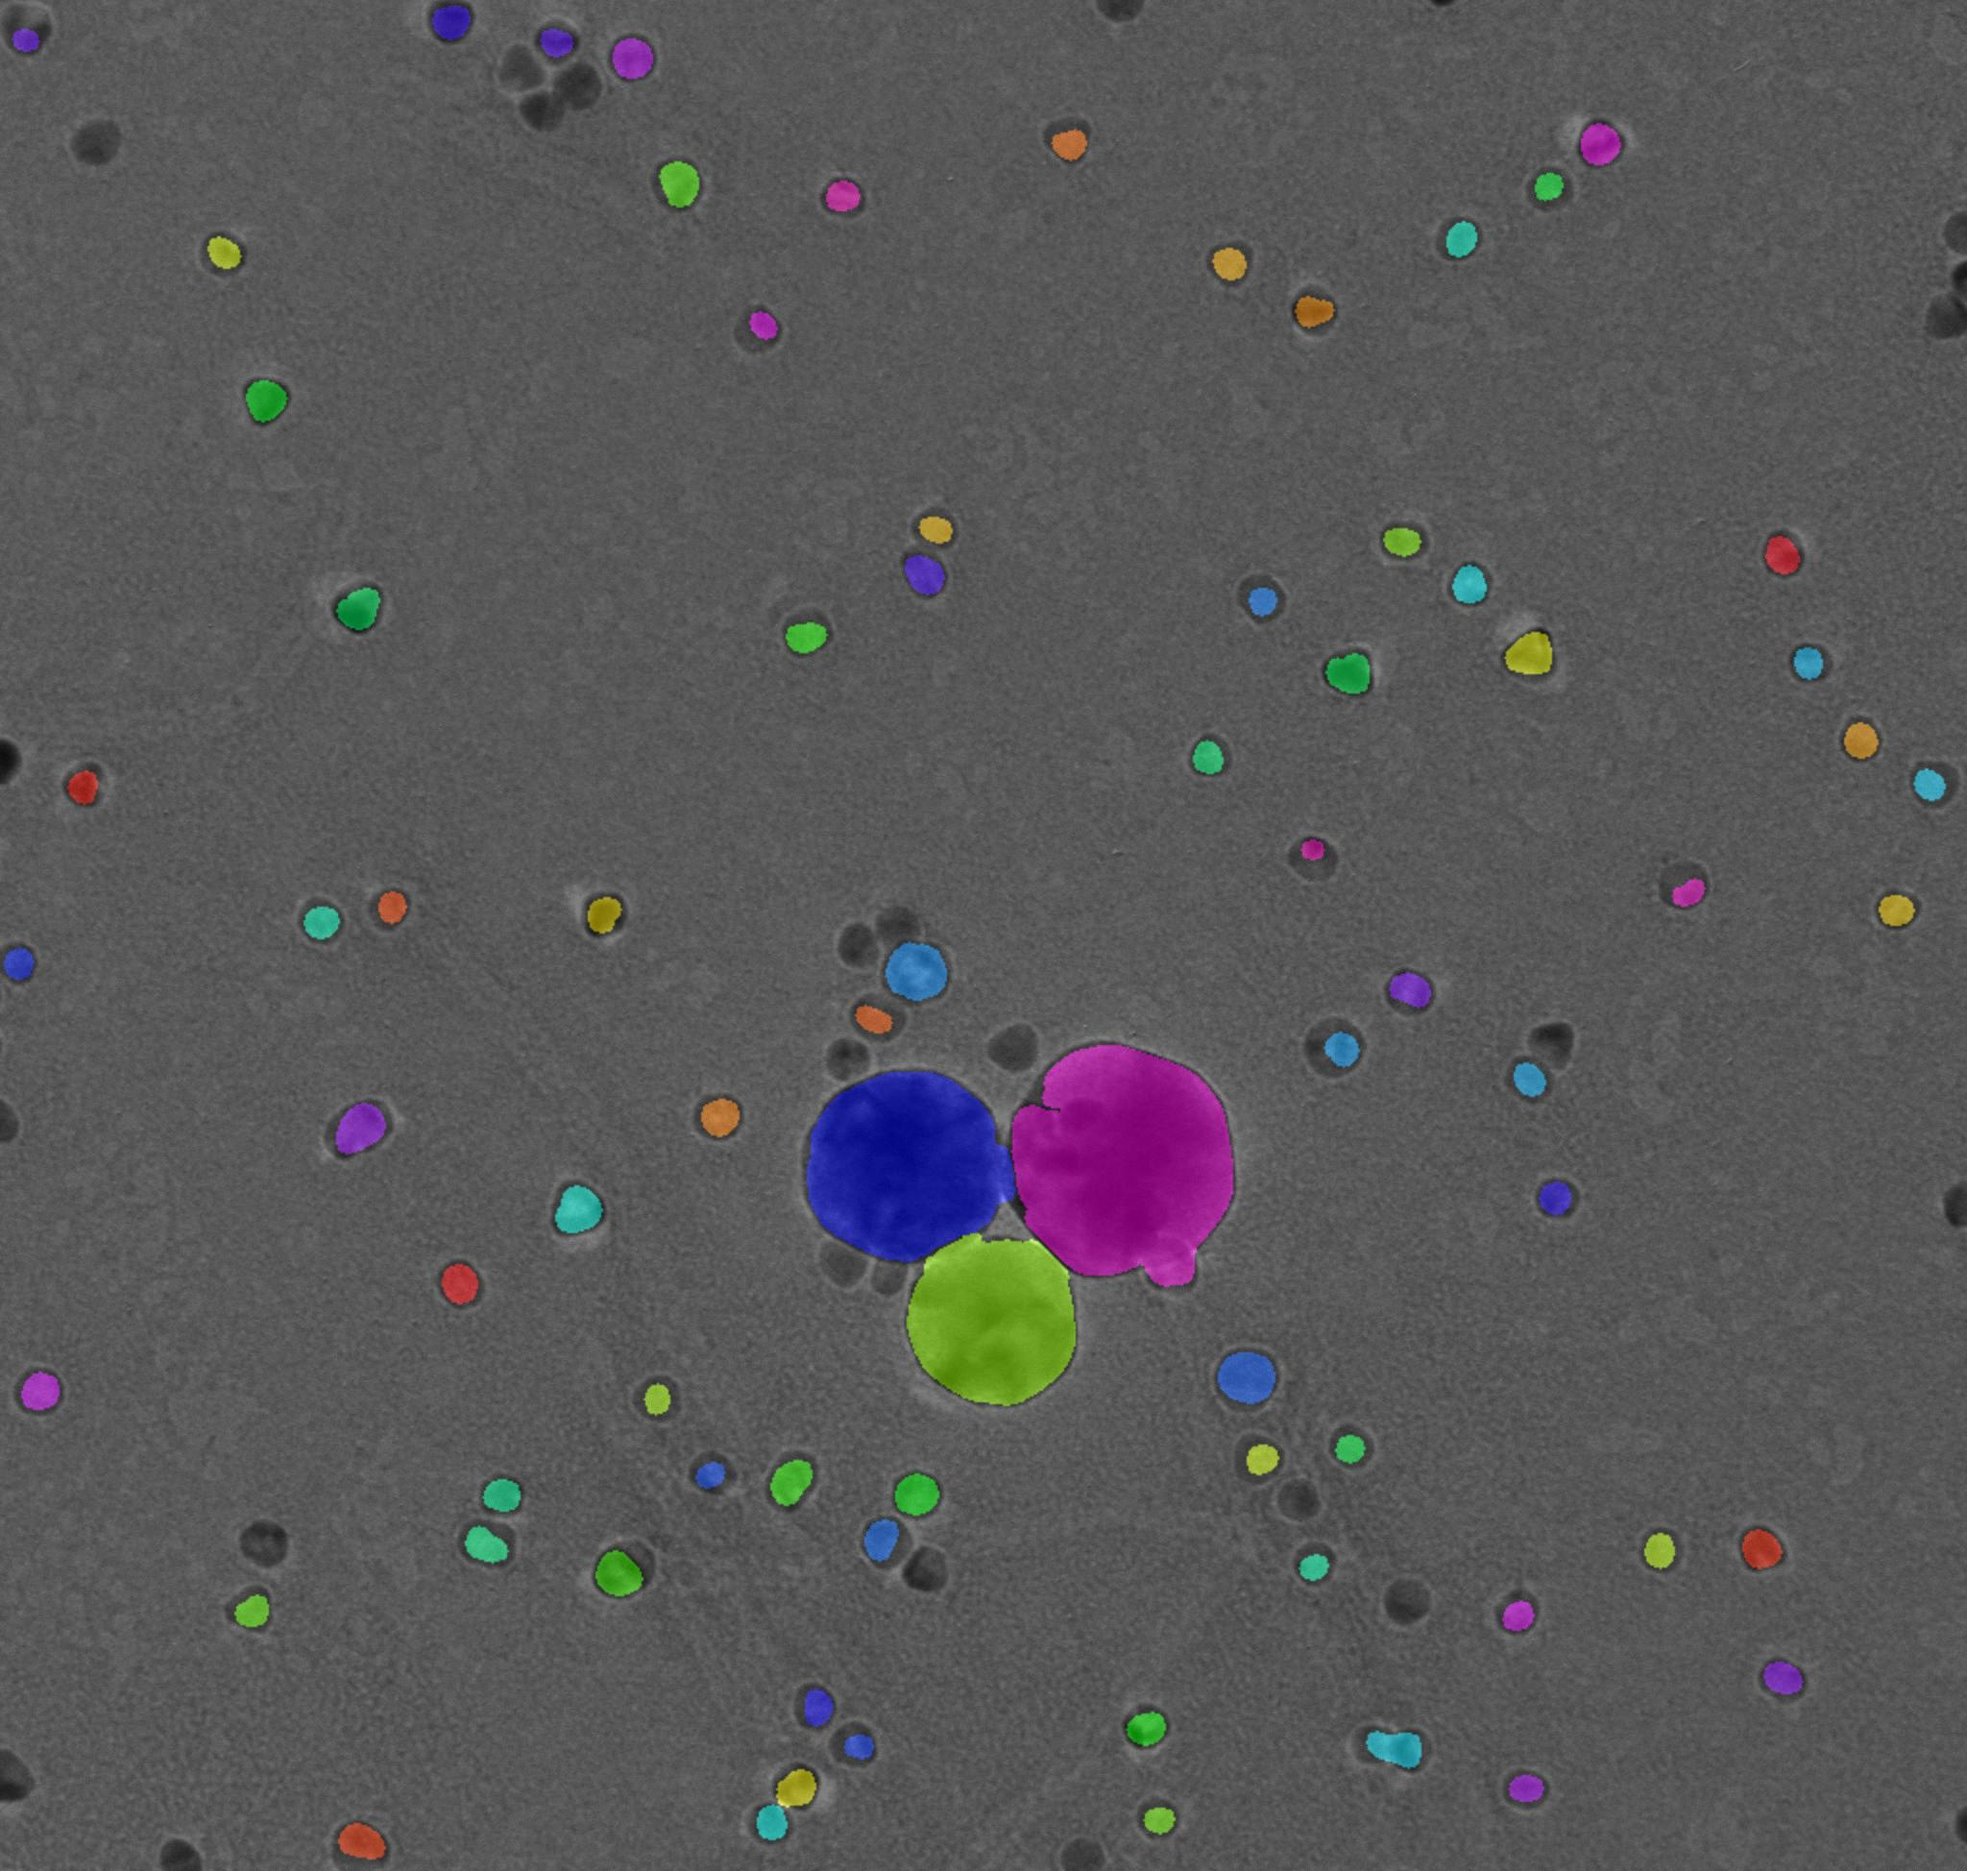
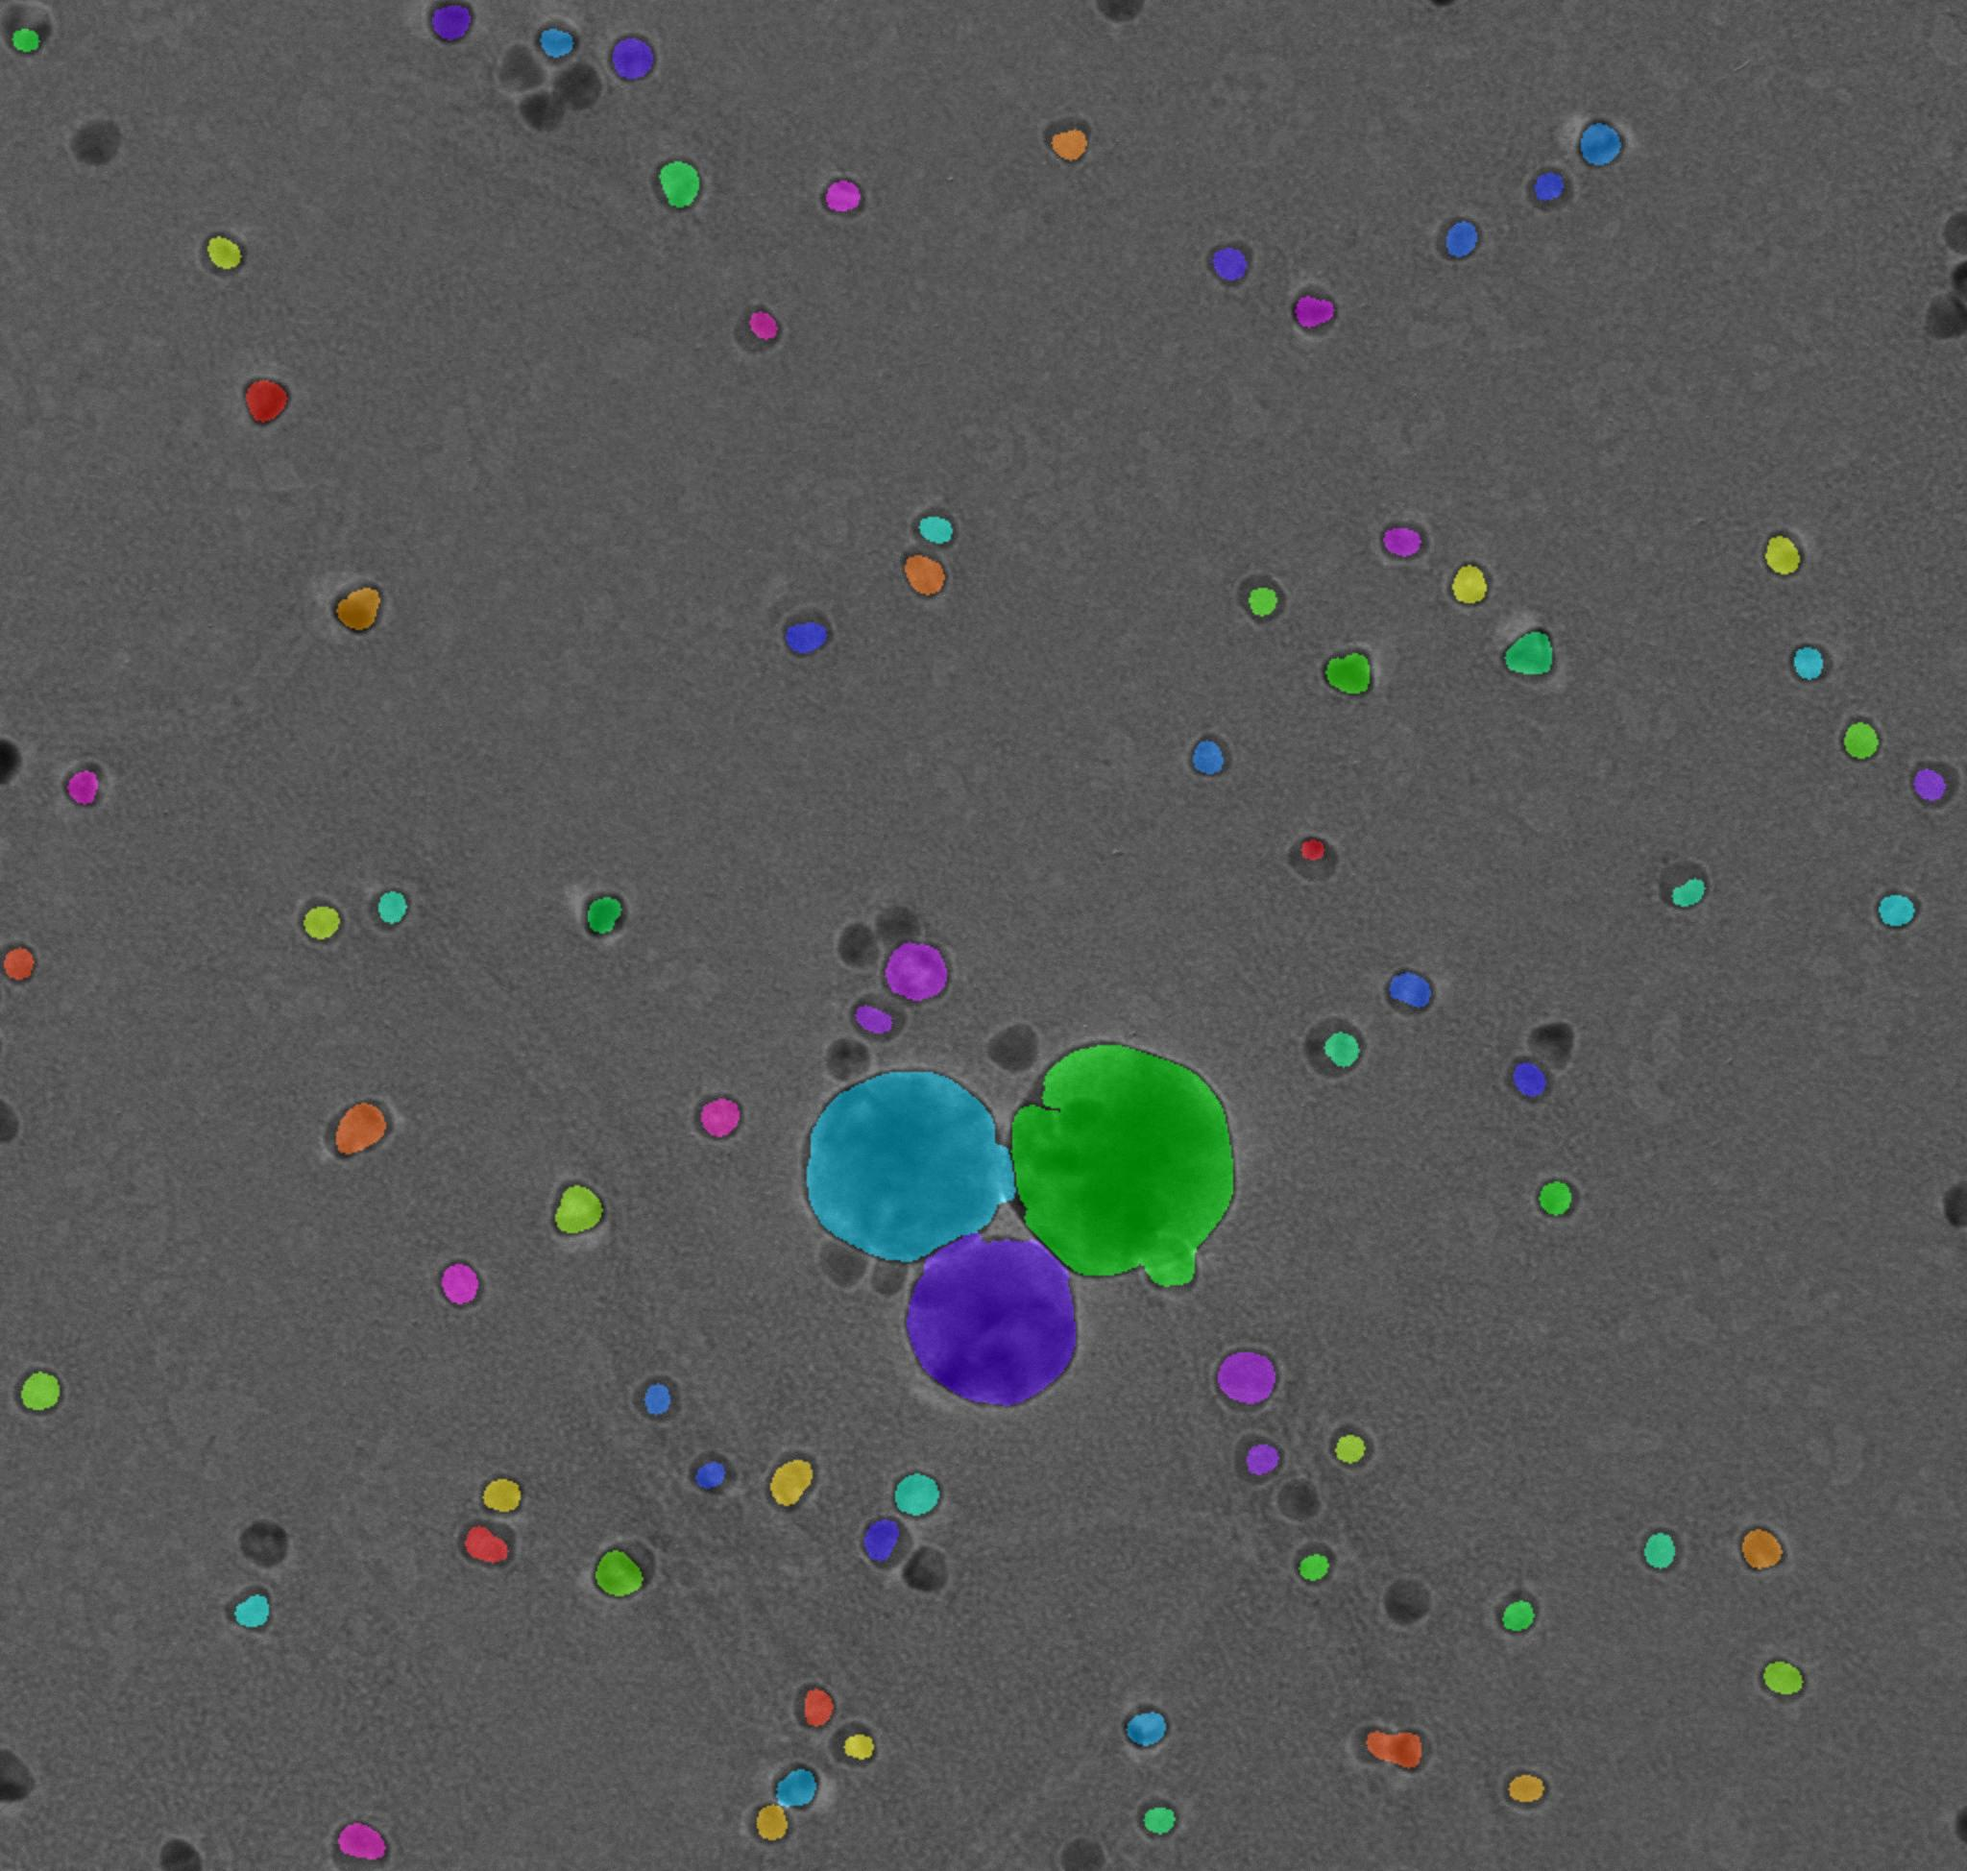
plotting and statistical evaluation

diff --git a/img_fcn.py b/img_fcn.py
@@ -3,20 +3,21 @@ import numpy as np
 import cv2
 import matplotlib.pyplot as plt
 from scipy import ndimage as ndi
+from scipy import stats
 import json
 import os
 import re
 import argparse
-from copy import deepcopy, copy
+from copy import deepcopy
 from skimage.io import imread
-from skimage.filters import threshold_otsu, threshold_minimum, median
+from skimage.filters import threshold_otsu, median
 from skimage.color import rgb2gray
 from skimage.segmentation import watershed, clear_border
-from skimage.feature import peak_local_max, canny
+from skimage.feature import canny
 from skimage.transform import rescale, hough_circle, hough_circle_peaks
 from skimage.measure import regionprops_table, label
 from skimage.morphology import (
-    remove_small_holes, remove_small_objects, disk, erosion, dilation, opening, convex_hull_image, closing
+    remove_small_holes, remove_small_objects, disk, erosion, dilation, convex_hull_image
 )
 from sklearn.cluster import KMeans
 import random
@@ -274,13 +275,16 @@ def segmentation(img, binary, np_type, pixel_size):
     if np_type == "nanoparticles":
         props_ht = find_overlaps(img, labels, sizes, np_type, pixel_size)
         sizes = find_duplicity(labels, props_ht, props_watershed, pixel_size)
+        seeds, seeds_sizes = detect_seeds(deepcopy(sizes))
+        if seeds:
+            sizes = [i for i in sizes if i not in seeds_sizes]
     else:
         labels, props_watershed = filter_blobs(labels, sizes, props_watershed)
         sizes[0] = [i * pixel_size for i in sizes[1]]
         sizes[1] = [i * pixel_size for i in sizes[2]]
         props_ht = []
 
-    return labels, sizes, props_ht
+    return labels, sizes, props_ht, seeds
 
 
 def result_image(raw, labels, np_type, props_ht):
@@ -372,14 +376,19 @@ def find_duplicity(labels, props_ht, props_wsh, pixel_size):
 
 def detect_seeds(sizes):
     sizes = np.array(sizes).reshape(-1, 1)
-    kmeans = KMeans(n_clusters=2).fit(sizes)
+    kmeans = KMeans(n_clusters=2, n_init="auto").fit(sizes)
     centers = kmeans.cluster_centers_
-    if centers[0] > 4*centers[1] or centers[1] > 4*centers[0]:
+    if centers[0] > 4*centers[1]:
         seeds = True
+        seeds_sizes = [sizes[i] for i in range(len(sizes)) if kmeans.labels_[i] == 1]
+    elif centers[1] > 4*centers[0]:
+        seeds = True
+        seeds_sizes = [sizes[i] for i in range(len(sizes)) if kmeans.labels_[i] == 0]
     else:
         seeds = False
+        seeds_sizes = []
 
-    return seeds, centers
+    return seeds, seeds_sizes
         
 
 
@@ -649,58 +658,22 @@ def ploting_img(images, names):
     plt.show()
 
 
-def saving(img, file_name, sizes, np_type, directory="results"):
+def saving(img, file_name, directory="results"):
     """Save result image into given directory.
 
     Args:
         img (numpy array): labeled image
         file_name (str): name of current input image file
-        sizes (list): list of sizes in current input
-        np_type (str): nanoparticles or nanorods
         directory (str, optional): path to directory
 
     Returns:
         string: path to file
     """
     name = re.split("/", file_name)
-    res_path = os.path.join(directory, name[-1])
-    plt.imsave(res_path, img)
+    result_path = os.path.join(directory, name[-1])
+    plt.imsave(result_path, img)
 
-    size_path = re.split("\\.", res_path)
-    size_path = f'{size_path[0]}.txt'
-
-    with open(size_path, "w") as txt_file:
-        if np_type == "nanoparticles":
-            avg = round(sum(sizes) / len(sizes), 3)
-            avg = f"mean diameter: {avg} nm\n"
-            txt_file.write(avg)
-
-            for size in sizes:
-                curr_size = str(size)
-                txt_file.write(curr_size)
-                txt_file.write('\n')
-        else:
-            avg_area = round(sum(sizes[0]) / len(sizes[0]), 3)
-            avg_area = "mean area: " + str(avg_area) + "nm^2\n"
-            txt_file.write(avg_area)
-
-            avg_major = round(sum(sizes[1]) / len(sizes[1]), 3)
-            avg_major = "mean major axis length: " + str(avg_major) + "nm\n"
-            txt_file.write(avg_major)
-
-            avg_minor = round(sum(sizes[2]) / len(sizes[2]), 3)
-            avg_minor = "mean minor axis length: " + str(avg_minor) + "nm\n"
-            txt_file.write(avg_minor)
-
-            header = "area, major_axis, minor_axis\n"
-            txt_file.write(header)
-
-            for i in range(len(sizes[0])):
-                line = [str(sizes[0][i]), str(sizes[1][i]), str(sizes[2][i])]
-                txt_file.writelines(line)
-                txt_file.write('\n')
-
-    return res_path, size_path
+    return result_path
 
 
 def calculation_watershed(labeled, np_type):
@@ -745,33 +718,135 @@ def calculation_watershed(labeled, np_type):
     return sizes, selected
 
 
-def histogram_sizes(sizes, identificator, np_type, folder):
+def histogram_saving(sizes, identificator, folder, title, xlabel='diameter [nm]', ylabel='frequency [-]'):
     """Create histogram of sizes of NP
 
     Args:
         sizes (list): list of NP sizes
     """
-    file_name = f'{folder}/results/{identificator}_hist.png'
+    filename = f'{folder}/results/{identificator}_hist.png'
 
+    plt.hist(sizes, bins=20, color="dodgerblue", edgecolor="black", range=[0, 100])
+    plt.title(title)
+    plt.xlabel(xlabel)
+    plt.ylabel(ylabel)
+    plt.savefig(filename)
+    print("saving into:", filename)
+    plt.clf()
+
+
+def statistics(sizes):
+    """Calculate statistical parameters
+
+    Args:
+        sizes (_type_): _description_
+        identificator (_type_): _description_
+        folder (_type_): _description_
+        seeds (bool, optional): _description_. Defaults to False.
+    """
+    mean_value = np.round(calc_median(sizes), decimals=3)
+    interquartile = np.round(stats.iqr(sizes), decimals=3)
+
+    z_score = stats.zscore(sizes)
+    thresh = 3
+    outliers = np.where(z_score > thresh)
+    outliers = [sizes[i] for i in outliers[0]]
+
+    return mean_value, interquartile, outliers
+
+
+def textfile_saving(mean_value, interquartile, outliers, identificator, folder, np_type, seeds=False):
+    """Saving results into text file
+
+    Args:
+        mean_value (_type_): _description_
+        interquartile (_type_): _description_
+        identificator (_type_): _description_
+        folder (_type_): _description_
+        seeds (bool, optional): _description_. Defaults to False.
+    """
+    filename = f'{folder}/results/{identificator}_results.txt'
+
+    with open(filename, mode='w') as file:
+        file.write(f'{identificator} results:\n\n')
+
+        if np_type == 'nanoparticles':
+            file.write(f'mean value: {mean_value} nm\n')
+            file.write(f'interquartile range: {interquartile} nm\n')
+            
+            if seeds:
+                file.write(f'\nsmall structures detected (seeds)\n')
+
+        elif np_type == 'nanorods':
+            file.write(f'mean value of major axis: {mean_value[0]} nm\n')
+            file.write(f'interquartile range of major axis: {interquartile[0]} nm\n')
+            file.write(f'mean value of minor axis: {mean_value[1]} nm\n')
+            file.write(f'interquartile range of minor axis: {interquartile[1]} nm\n')
+
+        file.write(f'\n{len(outliers)} outliers detected\n')
+
+    print("saving into:", filename)
+
+
+def boxplot_saving(sets, identificator, folder, title, xlabel='image number [-]', ylabel='diameter [nm]'):
+    """Create boxplot of sizes of NP
+
+    Args:
+        sets (_type_): _description_
+        identificator (_type_): _description_
+        folder (_type_): _description_
+        title (_type_): _description_
+        xlabel (str, optional): _description_. Defaults to 'image number [-]'.
+        ylabel (str, optional): _description_. Defaults to 'diameter [nm]'.
+    """
+    filename = f'{folder}/results/{identificator}_boxplot.png'
+
+    plt.boxplot(sets)
+    plt.title(title)
+    plt.xlabel(xlabel)
+    plt.ylabel(ylabel)
+    plt.savefig(filename)
+    print("saving into:", filename)
+    plt.clf()
+
+
+def saving_result(all_sizes, sets_sizes, identificator, np_type, folder, seeds=False):
+    """Create text file with results
+
+    Args:
+        sizes (_type_): _description_
+        identificator (_type_): _description_
+        np_type (_type_): _description_
+        folder (_type_): _description_
+    """
     if np_type == "nanoparticles":
-        plt.hist(sizes, bins=10, color="dodgerblue", edgecolor="black")
-        plt.title("Histogram of sizes of NPs")
-        plt.xlabel("diameter [nm]")
-        plt.ylabel("frequency [-]")
-        plt.savefig(file_name)
-        plt.clf()
+        title = "Boxplot of sizes of NPs sample through various images"
+        boxplot_saving(sets_sizes, identificator, folder, title)
 
-    elif np_type == "nanorods":
-        plt.hist(sizes[0], bins=10, color="forestgreen", edgecolor="black", range=[0, 100])
-        plt.hist(sizes[1], bins=10, color="brown", edgecolor="black", range=[0, 100])
-        plt.legend(["major axis", "minor axis"])
-        plt.title("Histogram of sizes of NRs")
-        plt.xlabel("axis length [nm]")
-        plt.ylabel("frequency [-]")
-        plt.savefig(file_name)
-        plt.clf()
+        title = "Histogram of sizes of NPs"
+        histogram_saving(all_sizes, identificator, folder, title)
 
-    return file_name
+        mean_value, interquartile, outliers = statistics(all_sizes)
+
+        textfile_saving(mean_value, interquartile, outliers, identificator, folder, np_type, seeds)
+
+    elif np_type == 'nanorods':
+        title = "Histogram of sizes of nanorods"
+        histogram_saving(all_sizes[1], identificator, folder, title, xlabel='major axis length [nm]')
+
+        title = "Histogram of sizes of nanorods"
+        histogram_saving(all_sizes[2], identificator, folder, title, xlabel='minor axis length [nm]')
+
+        mean1, iqr1, out1 = statistics(all_sizes[1])
+        mean2, iqr2, out2 = statistics(all_sizes[2])
+
+        mean_value = [mean1, mean2]
+        interquartile = [iqr1, iqr2]
+        outliers = [out1, out2]
+
+        textfile_saving(mean_value, interquartile, outliers, identificator, folder, np_type)
+
+
 
 
 def read_args():
@@ -822,7 +897,7 @@ def image_analysis(input_description, image, np_type, folder, images=None, names
     img_raw, pixel_size = loading_img(img_path, scale)
     img_filtered, pixel_size = filtering_img(img_raw, scale, np_type, pixel_size, background)
     binary = binarizing(img_filtered, np_type)
-    labels, sizes, props_ht = segmentation(
+    labels, sizes, props_ht, seeds = segmentation(
         img_filtered, binary, np_type, pixel_size
     )
 
@@ -833,11 +908,11 @@ def image_analysis(input_description, image, np_type, folder, images=None, names
         names.append(img_path)
 
     directory = f'{folder}/results'
-    labeled_filename = saving(img, img_path, sizes, np_type, directory)
+    labeled_filename = saving(img, img_path, directory)
 
     print("saving into:", labeled_filename)
 
-    return labeled_filename, sizes, np_type
+    return labeled_filename, sizes, np_type, seeds
 
 
 def get_config():
@@ -872,10 +947,15 @@ if __name__ == "__main__":
 
     images = []
     names = []
+    all_sizes = []
+    sets_sizes = []
 
     for image in input_description:
-        _, sizes, np_type = image_analysis(input_description, image, np_type, folder, images, names)
-        hist_filename = histogram_sizes(sizes, identificator, np_type, folder)
+        _, sizes, np_type, seeds = image_analysis(input_description, image, np_type, folder, images, names)
+        all_sizes += sizes
+        sets_sizes.append(sizes)
+
+    saving_result(all_sizes, sets_sizes, identificator, np_type, folder, seeds)
 
     if show:
         ploting_img(images, names)
